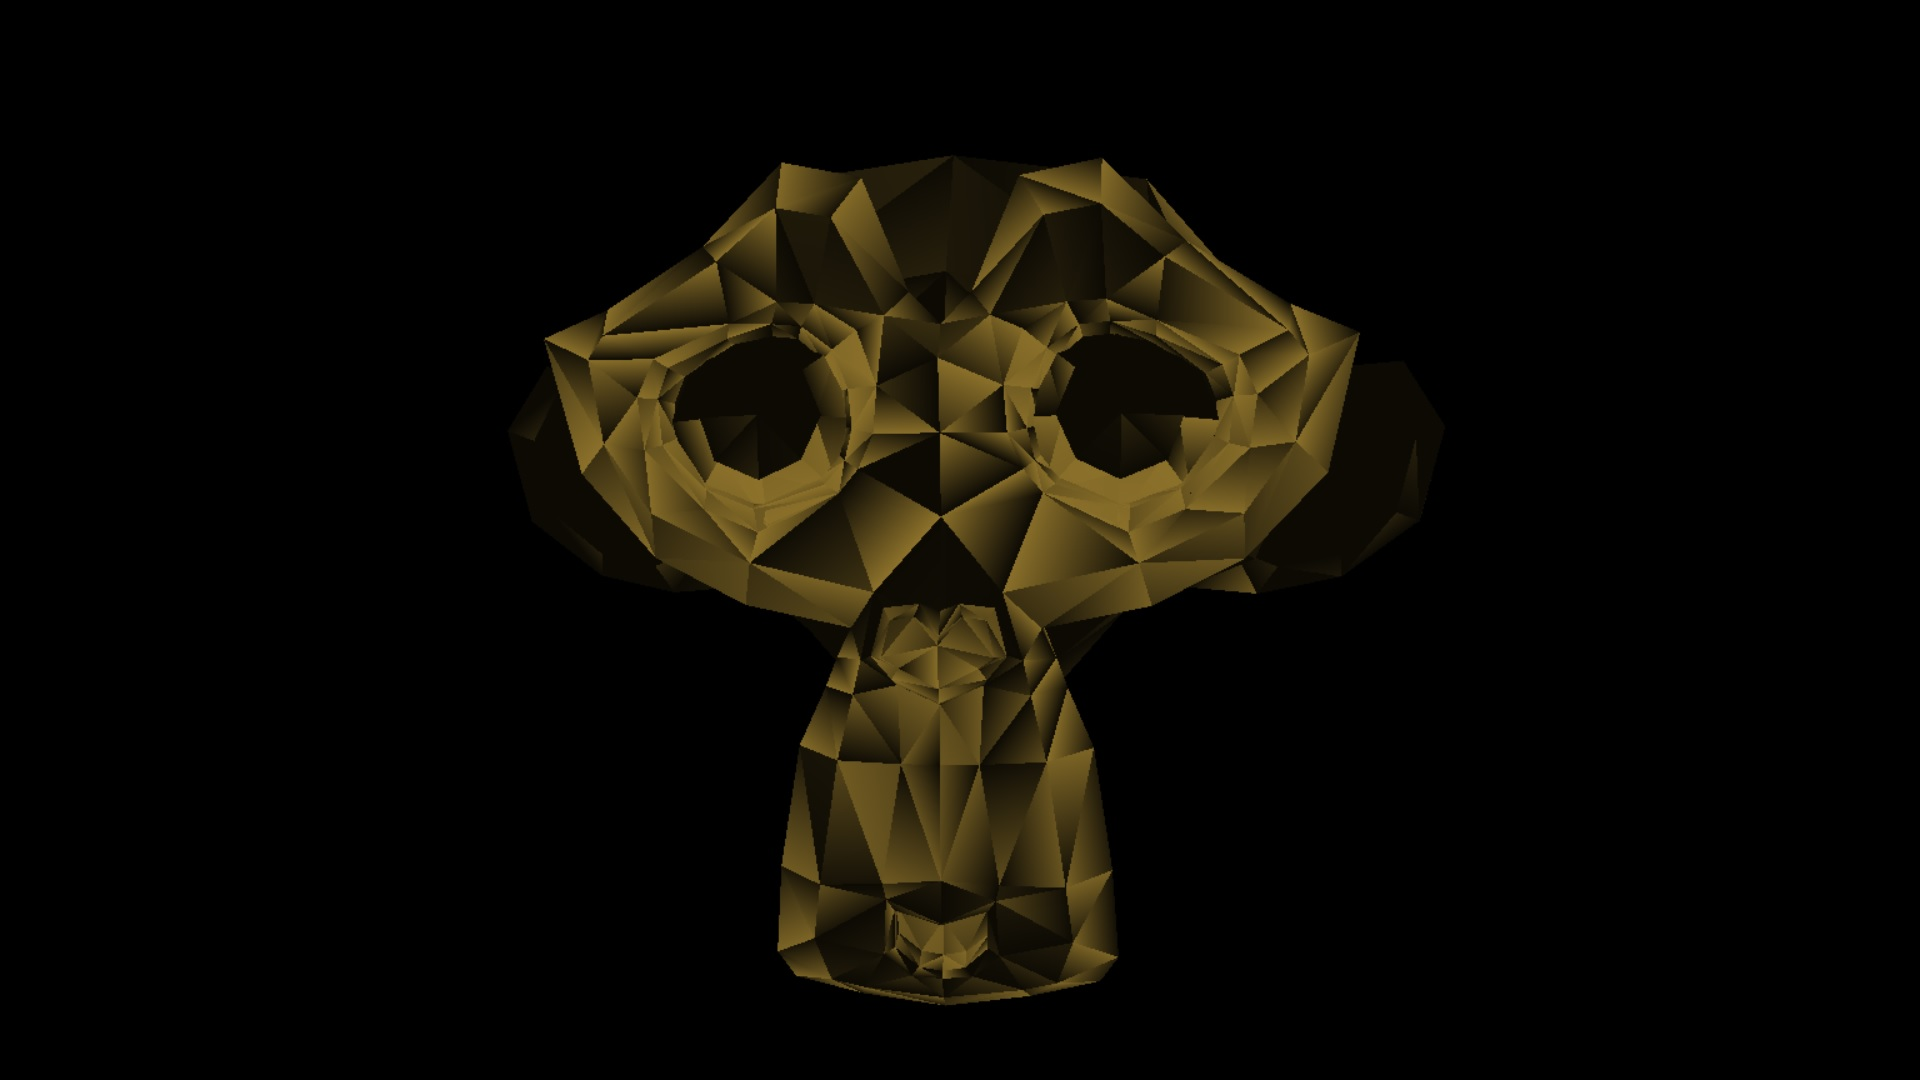
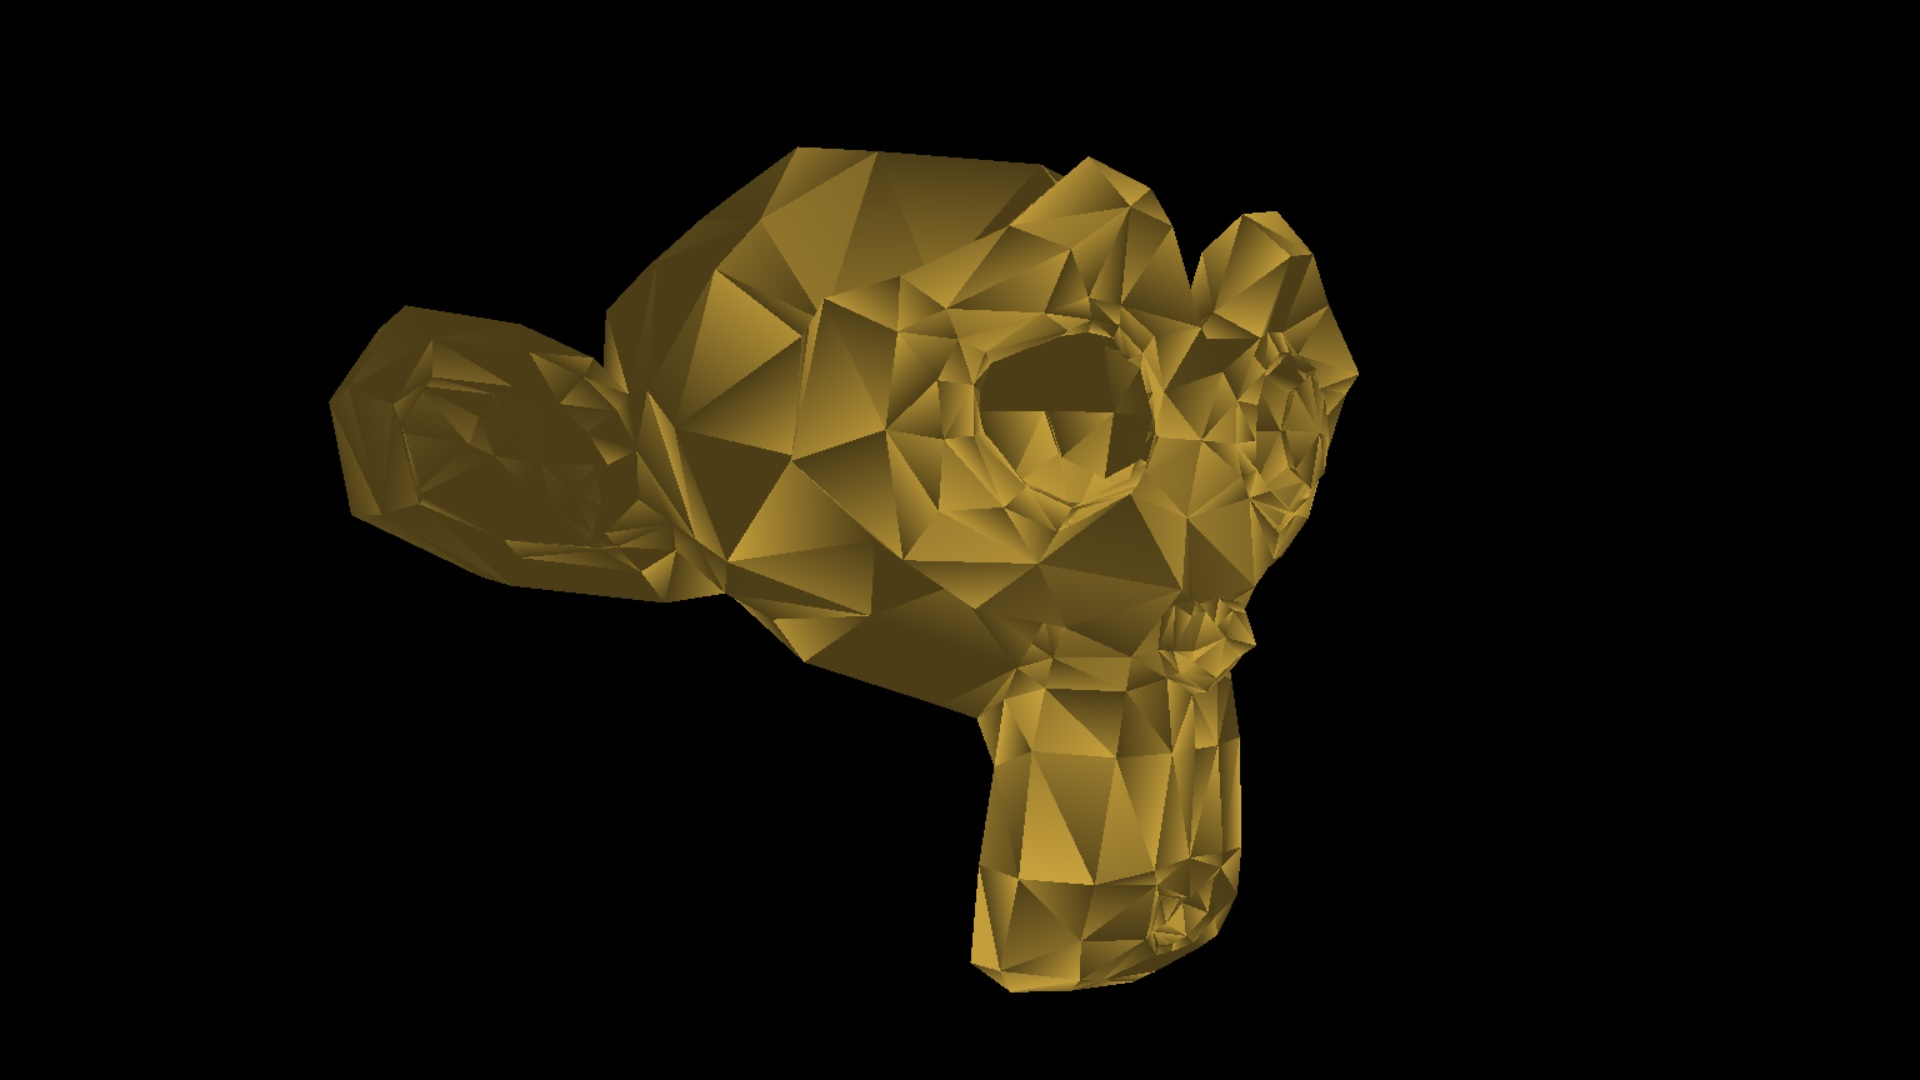
MokeyheadWithLightFullLight

Changed region(s): [[0.1562, 0.1222, 0.7188, 0.9472]]

diff --git a/OpenGL_On_Windows/Native/December17/MonkeyHeadWithLight/MonkeyHeadWithLight/Source.cpp b/OpenGL_On_Windows/Native/December17/MonkeyHeadWithLight/MonkeyHeadWithLight/Source.cpp
@@ -70,7 +70,7 @@ bool gbActiveWindow = false;
 bool gbEscapeKeyPressed = false;
 HDC ghdc;
 HGLRC ghrc;
-GLfloat light_ambient[] = { 0.0f,0.0f,0.0f,1.0f };
+GLfloat light_ambient[] = { 1.0f,1.0f,1.0f,1.0f };
 GLfloat light_diffuse[] = { 1.0f,1.0f,1.0f,1.0f };
 GLfloat light_specular[] = { 1.0f,1.0f,1.0f,1.0f };
 GLfloat light_position[] = { 0.0f,0.0f,1.0f,0.0f };
